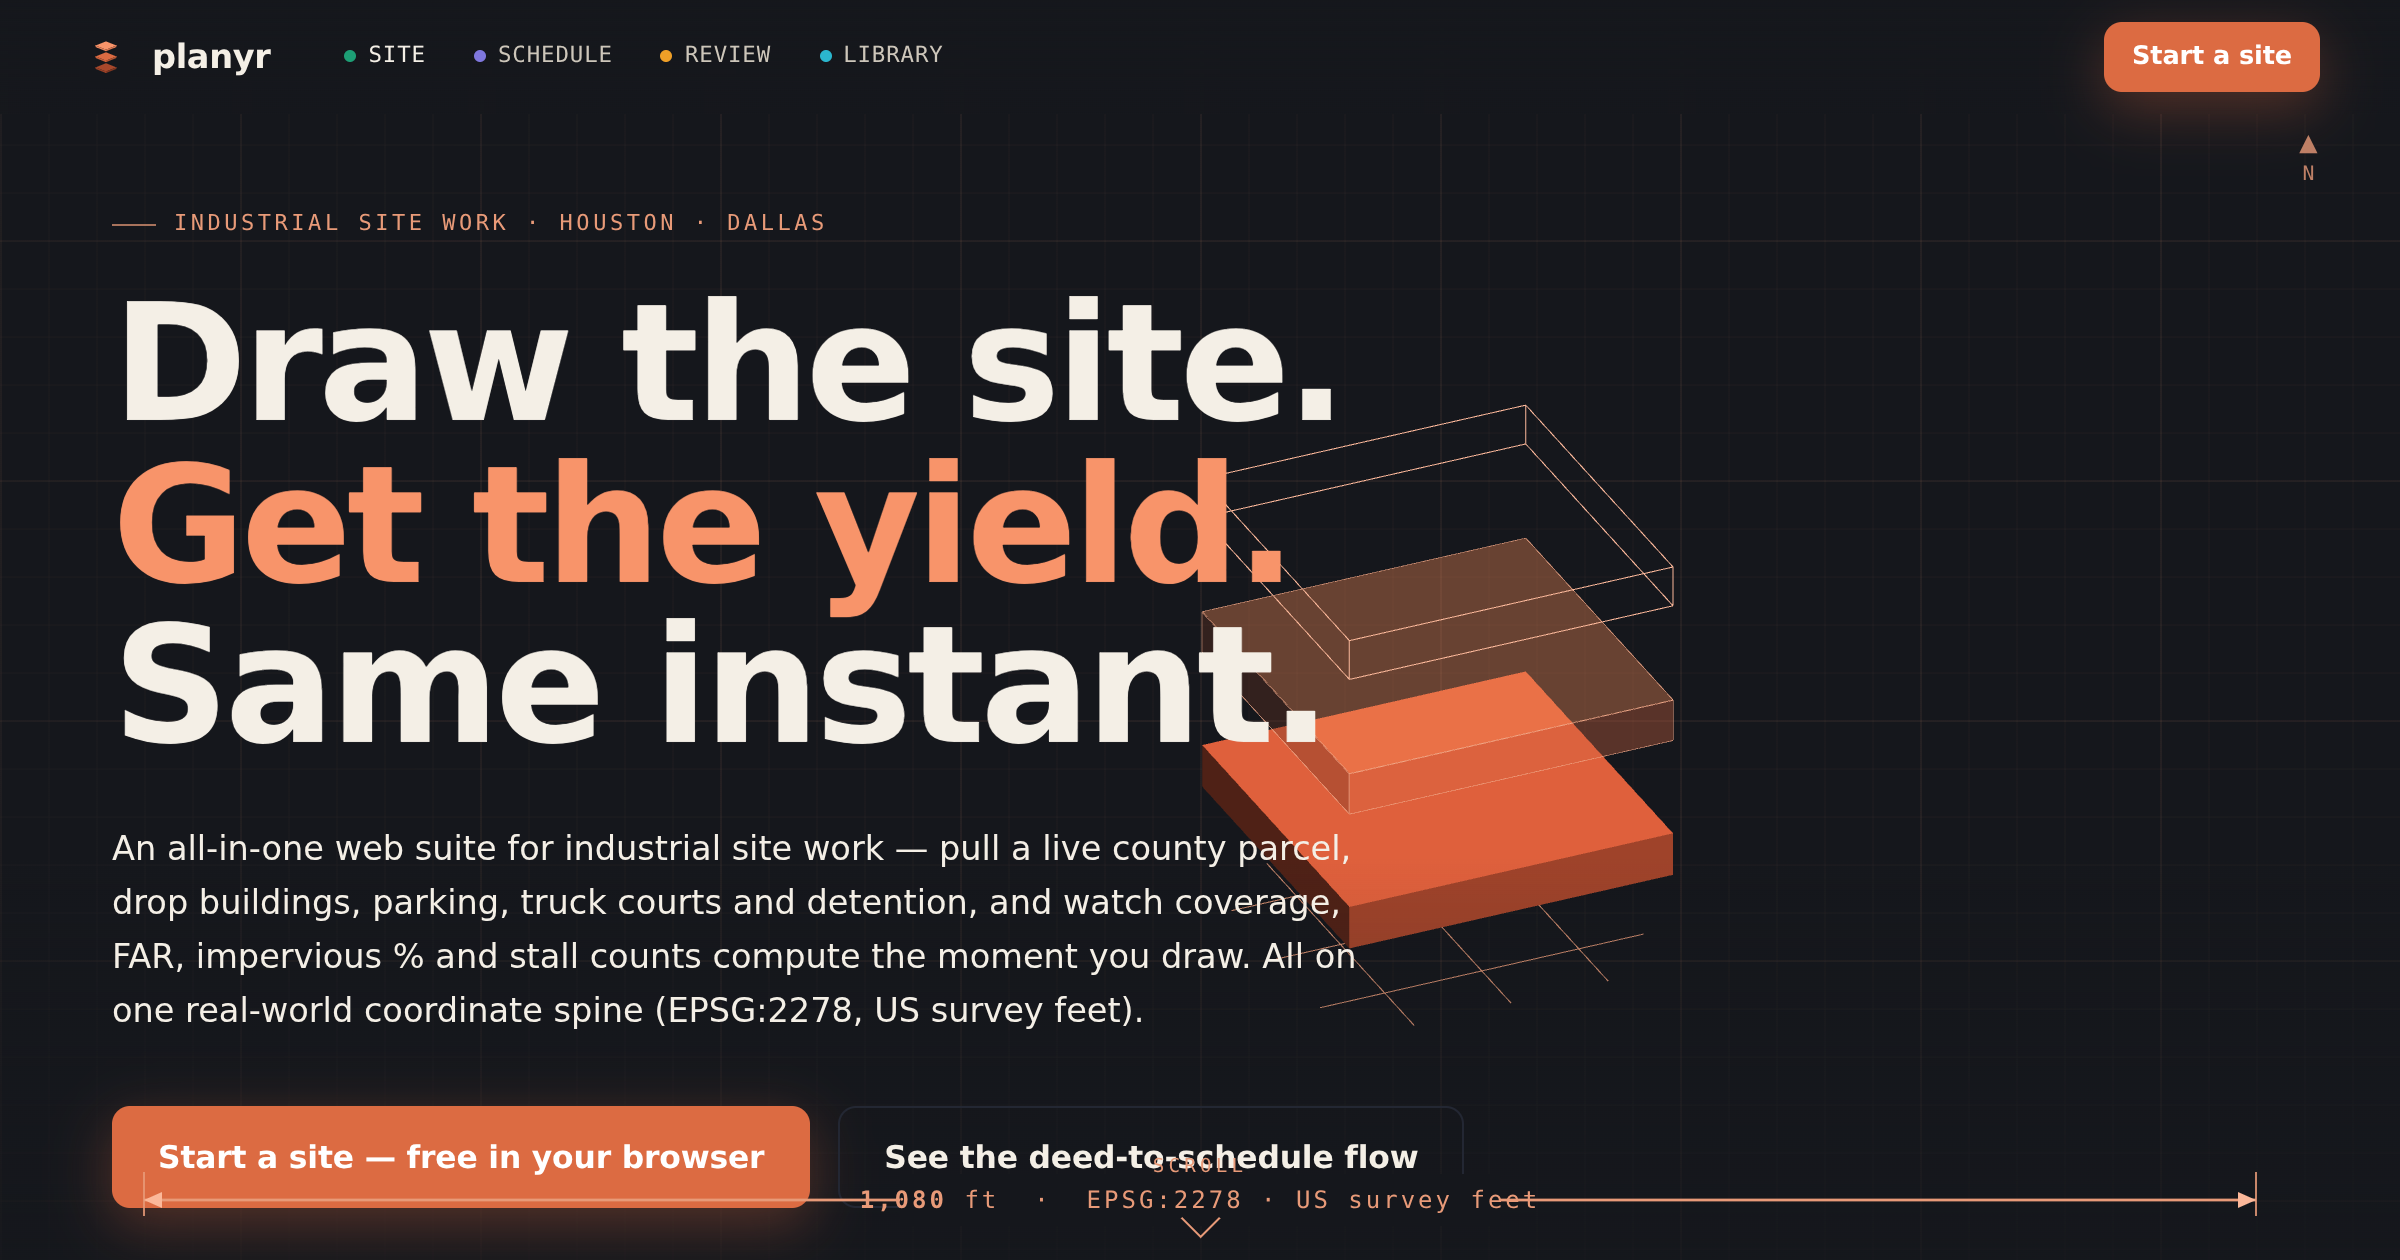
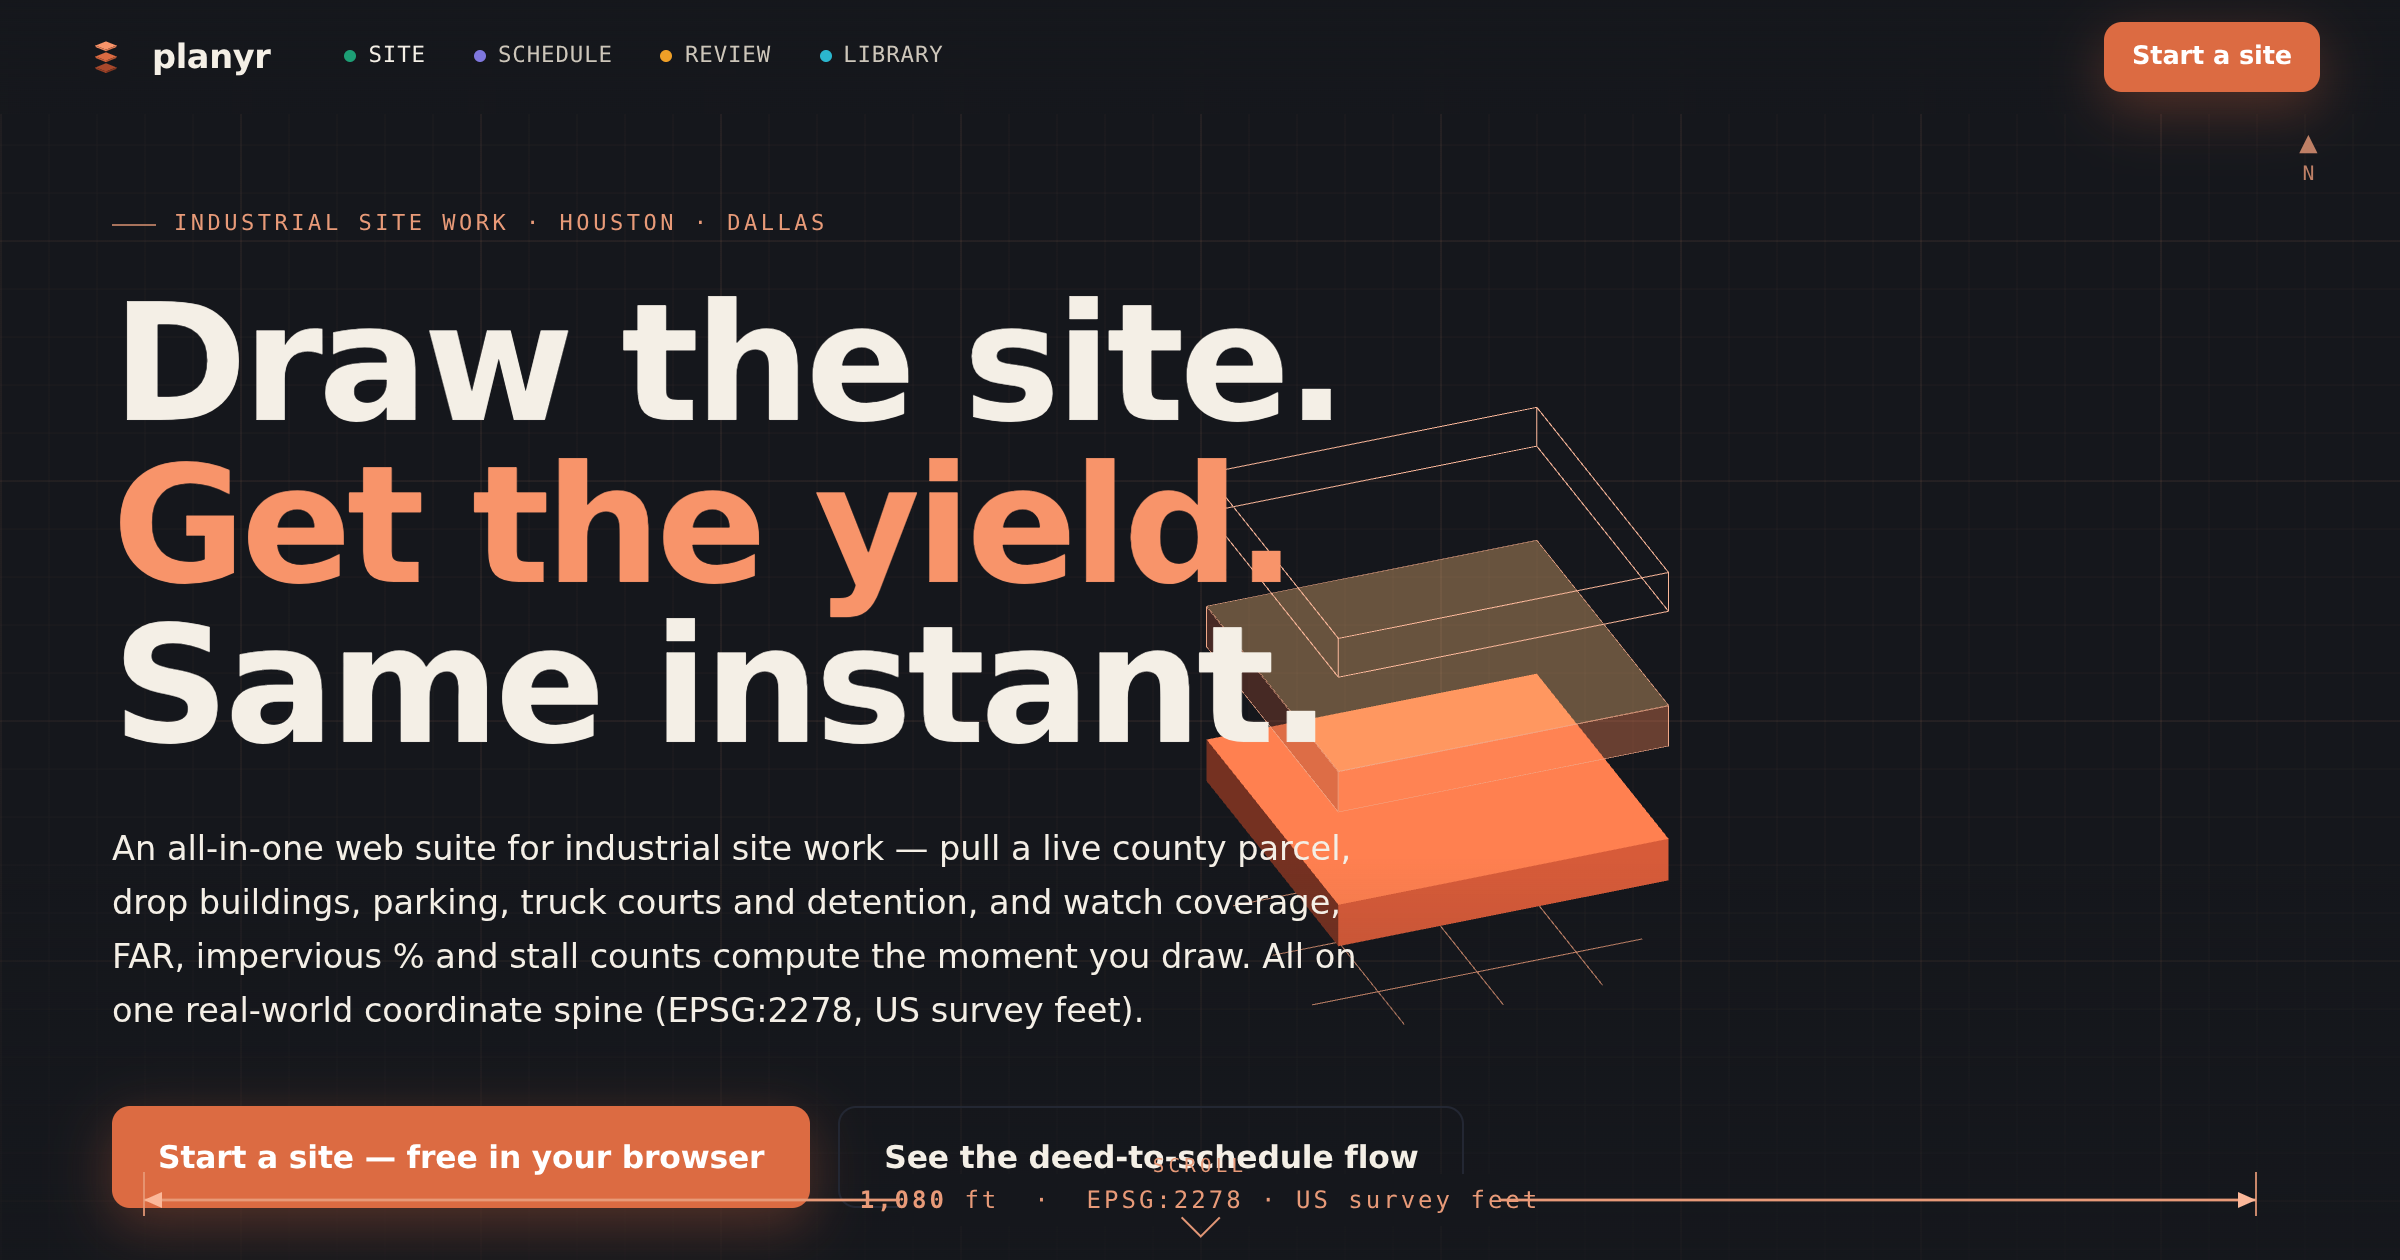
Landing page: apply adversarial-review fixes (visibility, mobile, perf, a11y)
Acts on a 6-lens review of the landing page:

- Site showpiece visibility: brighter ambient/hemisphere light + a coral-mid
  "built" skin + visible truck-court/pond so the 3D build reads through the whole
  scrub instead of sinking into the ink past ~40%.
- Mobile horizontal overflow (root cause of the clipped topbar CTA): the Review
  sheets' scattered pre-stitch transforms overflowed the page and widened the
  mobile layout viewport. Clip them to the drawing frame (overflow:hidden) and
  fix the canvas to width:100% (not 100vw). Hero/close CTAs stack full-width and
  wrap on narrow phones; topbar CTA swaps to a short label.
- Spine on phones: the horizontal 5-station track can't fit, so render a vertical
  stacked timeline below 640px.
- Perf: defer three.min.js (590 KB) off the critical path — show the static mark
  immediately, boot the WebGL scene on idle, upgrade in place.
- a11y: visible :focus-visible rings on every link/button.
- Copy: Schedule eyebrow now says "Schedule" (matched the tab + heading).
- Review payoff badges (auto-calibrated / auto-filed) moved inside the sheet
  corners, larger, near-solid backing so they actually get seen.
- Hero mark dimmed + lifted on mobile/tablet so the coral headline stays legible.

Regenerated og.png. lint clean, 1795 tests pass, build green; verified across
desktop/tablet/phone (320–414px) with no horizontal overflow and WebGL booting.

Claude-Session: https://claude.ai/code/session_01FhhQ3cQSmoW4harGBLpUdh

diff --git a/public/landing/index.html b/public/landing/index.html
@@ -98,10 +98,12 @@ body::before {
           mask-image: radial-gradient(120% 90% at 60% 35%, #000 35%, transparent 100%);
 }
 
-/* The Three.js canvas — fixed full-viewport, behind the DOM, decorative. */
+/* The Three.js canvas — fixed full-viewport, behind the DOM, decorative.
+   width/height 100% (not 100vw/vh) so it never exceeds the layout width by the
+   scrollbar gutter — that overflow was pushing the fixed topbar CTA off the edge. */
 #bg {
   position: fixed; inset: 0; z-index: 1;
-  width: 100vw; height: 100vh;
+  width: 100%; height: 100%;
   pointer-events: none;
   display: block;
 }
@@ -155,9 +157,12 @@ h2 { font-size: clamp(1.7rem, 3.8vw, 2.65rem); letter-spacing: -0.02em; }
   background: linear-gradient(to bottom, rgba(21,23,28,.92), rgba(21,23,28,.62) 70%, transparent);
   -webkit-backdrop-filter: blur(8px); backdrop-filter: blur(8px);
 }
-.brand { display: inline-flex; align-items: center; gap: 10px; text-decoration: none; }
+.topbar { flex-wrap: nowrap; }
+.topbar .btn { flex: none; }
+.brand { display: inline-flex; align-items: center; gap: 10px; text-decoration: none; min-width: 0; }
 .brand svg { display: block; flex: none; }
-.brand b { font-weight: 800; font-size: 1.05rem; letter-spacing: -0.01em; color: var(--cream); }
+.brand b { font-weight: 800; font-size: 1.05rem; letter-spacing: -0.01em; color: var(--cream); white-space: nowrap; }
+.lbl-sm { display: none; }
 .tabs { display: flex; gap: 2px; margin-left: 8px; }
 .tab {
   font-family: var(--mono); font-size: 0.7rem; letter-spacing: 0.04em; text-transform: uppercase;
@@ -179,6 +184,11 @@ h2 { font-size: clamp(1.7rem, 3.8vw, 2.65rem); letter-spacing: -0.02em; }
 .btn-primary:hover { filter: brightness(1.06); }
 .btn-ghost { background: transparent; color: var(--cream); border-color: var(--ink-3); }
 .btn-ghost:hover { border-color: var(--line-1); color: var(--line-2); }
+/* Visible keyboard focus on every interactive element (coral ring reads on both the
+   ink field and the coral button fill). */
+.btn:focus-visible, .tab:focus-visible, .brand:focus-visible {
+  outline: 2px solid var(--line-2); outline-offset: 3px; border-radius: 9px;
+}
 .topbar .btn { padding: 7px 13px; font-size: 0.8rem; }
 .topbar .btn-ghost { display: none; }
 
@@ -232,6 +242,17 @@ h2 { font-size: clamp(1.7rem, 3.8vw, 2.65rem); letter-spacing: -0.02em; }
 #spine-svg text { font-family: var(--mono); fill: var(--cream); }
 #spine-svg .cap { fill: var(--cream); font-size: 13px; font-weight: 600; letter-spacing: .02em; }
 #spine-svg .sub { fill: var(--line-1); font-size: 9px; letter-spacing: .14em; }
+.spine-vert { display: none; }
+@media (max-width: 640px) {
+  #spine-svg { display: none; }
+  .spine-track { height: auto; margin-top: 6px; }
+  .spine-vert { display: block; list-style: none; margin: 0; padding: 4px 0 2px 24px; border-left: 2px solid var(--line-1); }
+  .spine-vert li { position: relative; padding: 0 0 22px 12px; opacity: 0; transform: translateY(8px); }
+  .spine-vert li:last-child { padding-bottom: 2px; }
+  .spine-vert li::before { content: ""; position: absolute; left: -31px; top: 3px; width: 11px; height: 11px; border-radius: 50%; background: var(--coral-mid); border: 2px solid var(--ink); }
+  .spine-vert .vn { display: block; font-weight: 700; font-size: 1.05rem; letter-spacing: -0.01em; color: var(--cream); }
+  .spine-vert .vs { display: block; font-family: var(--mono); font-size: 0.64rem; letter-spacing: .14em; text-transform: uppercase; color: var(--line-1); margin-top: 3px; }
+}
 
 /* ---- sticky showpiece sections ---- */
 .stage-section { position: relative; }
@@ -281,7 +302,10 @@ h2 { font-size: clamp(1.7rem, 3.8vw, 2.65rem); letter-spacing: -0.02em; }
 }
 
 /* Review */
-.review-stage .frame { position: relative; width: 100%; aspect-ratio: 4 / 3; max-width: 560px; margin-inline: auto; }
+/* overflow:hidden clips the sheets to the drawing frame (correct for a viewport) and,
+   crucially, stops their scattered pre-stitch transforms from overflowing the page —
+   that overflow was widening the mobile layout viewport and cropping the topbar CTA. */
+.review-stage .frame { position: relative; width: 100%; aspect-ratio: 4 / 3; max-width: 560px; margin-inline: auto; overflow: hidden; border-radius: 10px; }
 .sheet {
   position: absolute; inset: 0; border-radius: 8px; background: #F4F1EA;
   border: 1px solid #c9c3b4; box-shadow: 0 18px 50px rgba(0,0,0,.5);
@@ -294,11 +318,14 @@ h2 { font-size: clamp(1.7rem, 3.8vw, 2.65rem); letter-spacing: -0.02em; }
 .sheet .glyph::after { content: ""; position: absolute; inset: 18% 30% 30% 14%; border: 1px solid #b0aa99; }
 .sheet .code { position: absolute; left: 9px; top: 9px; font-family: var(--mono); font-size: 11px; color: #5a5446; font-weight: 600; letter-spacing: .05em; }
 .calib-label, .filed-label {
-  position: absolute; font-family: var(--mono); font-size: 0.66rem; letter-spacing: .06em;
-  padding: 5px 10px; border-radius: 7px; opacity: 0; white-space: nowrap;
+  position: absolute; font-family: var(--mono); font-size: 0.74rem; letter-spacing: .04em; font-weight: 500;
+  padding: 6px 11px; border-radius: 8px; opacity: 0; white-space: nowrap;
+  box-shadow: 0 8px 22px rgba(0,0,0,.45);
 }
-.calib-label { left: 6%; bottom: -6%; color: var(--line-1); border: 1px solid rgba(232,154,120,.4); background: rgba(21,23,28,.85); }
-.filed-label { right: 4%; top: -7%; color: var(--review); border: 1px solid rgba(239,159,39,.45); background: rgba(21,23,28,.85); }
+/* Inside the sheet's corners (the reading zone) so these two payoff badges —
+   auto-calibrated, auto-filed — actually get seen, on a near-solid backing. */
+.calib-label { left: 4%; bottom: 5%; color: var(--line-2); border: 1px solid rgba(240,168,136,.5); background: rgba(21,23,28,.95); }
+.filed-label { right: 4%; top: 5%; color: var(--review); border: 1px solid rgba(239,159,39,.55); background: rgba(21,23,28,.95); }
 
 /* Schedule gantt */
 .gantt { display: grid; gap: 9px; margin-top: 12px; }
@@ -353,11 +380,18 @@ footer .cred { font-family: var(--mono); font-size: 0.62rem; letter-spacing: .06
   .metrics { grid-template-columns: 1fr 1fr; }
   .proof-row { gap: 6px 16px; }
   .gantt .row { grid-template-columns: 96px 1fr; }
-  /* keep the persistent CTA from clipping off the right edge on narrow phones */
+  /* keep the persistent CTA from clipping off the right edge on narrow phones:
+     tighten the bar and swap the button label to the short form. */
   .topbar { gap: 10px; padding: 10px 14px; }
-  .topbar .btn-primary { padding: 7px 12px; font-size: 0.78rem; }
+  .topbar .btn-primary { padding: 7px 13px; font-size: 0.8rem; }
+  .topbar .lbl-lg { display: none; }
+  .topbar .lbl-sm { display: inline; }
   .brand b { font-size: 0.98rem; }
   .hero h1 { font-size: clamp(2.1rem, 11vw, 3rem); }
+  /* Hero/close CTAs stack full-width and wrap their text so the long label can't
+     overflow a narrow phone. */
+  .hero .ctas, .close .ctas { flex-direction: column; align-items: stretch; }
+  .hero .ctas .btn, .close .ctas .btn { width: 100%; white-space: normal; justify-content: center; text-align: center; }
 }
 
 /* ---- reduced motion: everything legible, zero motion ---- */
@@ -365,6 +399,7 @@ footer .cred { font-family: var(--mono); font-size: 0.62rem; letter-spacing: .06
   .scroll-cue .chev { animation: none; }
   .chip.live .dot { animation: none; }
   .reveal { opacity: 1 !important; transform: none !important; }
+  .spine-vert li { opacity: 1 !important; transform: none !important; }
 }
 </style>
 </head>
@@ -398,7 +433,7 @@ footer .cred { font-family: var(--mono); font-size: 0.62rem; letter-spacing: .06
   </nav>
   <div class="spacer"></div>
   <a class="btn btn-ghost" href="#how">See the flow</a>
-  <a class="btn btn-primary" href="https://planyr.io/">Start a site</a>
+  <a class="btn btn-primary" href="https://planyr.io/"><span class="lbl-lg">Start a site</span><span class="lbl-sm">Start</span></a>
 </header>
 
 <main id="top">
@@ -438,6 +473,14 @@ footer .cred { font-family: var(--mono); font-size: 0.62rem; letter-spacing: .06
       </div>
       <div class="spine-track">
         <svg id="spine-svg" viewBox="0 0 1200 150" preserveAspectRatio="none" aria-hidden="true"></svg>
+        <!-- On narrow phones the horizontal track can't fit 5 stations — stack them. -->
+        <ol id="spine-vert" class="spine-vert">
+          <li><span class="vn">Deed</span><span class="vs">Metes &amp; bounds</span></li>
+          <li><span class="vn">Map</span><span class="vs">Aerial · GIS</span></li>
+          <li><span class="vn">Drawings</span><span class="vs">Stitched set</span></li>
+          <li><span class="vn">Layout</span><span class="vs">Massing · yield</span></li>
+          <li><span class="vn">Schedule</span><span class="vs">Sequence</span></li>
+        </ol>
       </div>
     </div>
   </section>
@@ -507,7 +550,7 @@ footer .cred { font-family: var(--mono); font-size: 0.62rem; letter-spacing: .06
     <div class="wrap">
       <div class="stage .nostick" style="min-height:auto; display:block; position:static;">
         <div class="sec-head" style="max-width:680px">
-          <span class="eyebrow reveal"><span style="color:var(--schedule)">●</span>&nbsp;Sequence</span>
+          <span class="eyebrow reveal"><span style="color:var(--schedule)">●</span>&nbsp;Schedule</span>
           <h2 class="reveal">The schedule, wired to the site.</h2>
           <p class="lede reveal">A development timeline linked to the same project — click the site,
             see its sequence: entitlement, grading, foundations, tilt-up, TI, CO. One spine, every phase.</p>
@@ -598,15 +641,19 @@ footer .cred { font-family: var(--mono); font-size: 0.62rem; letter-spacing: .06
 
 </main>
 
-<!-- vendored, zero third-party runtime deps -->
-<script src="/landing/vendor/three.min.js"></script>
+<!-- vendored, zero third-party runtime deps. three.js (590 KB) is deferred — it only
+     drives the Hero + Site 3D and is booted on idle, off the critical path. gsap +
+     ScrollTrigger stay synchronous (they drive every DOM/SVG section). -->
+<script defer src="/landing/vendor/three.min.js"></script>
 <script src="/landing/vendor/gsap.min.js"></script>
 <script src="/landing/vendor/ScrollTrigger.min.js"></script>
 <script>
 /* eslint-disable */
 (function () {
   "use strict";
-  var gsap = window.gsap, ScrollTrigger = window.ScrollTrigger, THREE = window.THREE;
+  // gsap + ScrollTrigger are synchronous (loaded before this script). THREE is deferred,
+  // so it is read at boot time (window.THREE) inside initThree, never captured here.
+  var gsap = window.gsap, ScrollTrigger = window.ScrollTrigger;
   var REDUCE = window.matchMedia && window.matchMedia("(prefers-reduced-motion: reduce)").matches;
   var IS_MOBILE = window.matchMedia && window.matchMedia("(max-width: 860px)").matches;
   var fmt = function (n) { return n.toLocaleString("en-US"); };
@@ -676,6 +723,7 @@ footer .cred { font-family: var(--mono); font-size: 0.62rem; letter-spacing: .06
   }
 
   function initThree() {
+    var THREE = window.THREE; // deferred lib — read at call time, not at script parse time
     if (!THREE || !hasWebGL()) return false;
     var canvas = document.getElementById("bg");
     var renderer;
@@ -696,9 +744,11 @@ footer .cred { font-family: var(--mono); font-size: 0.62rem; letter-spacing: .06
     cam.lookAt(0, 0, 0);
 
     // Lighting — warm key upper-right (lit top, darker sides, like the mark) + cool fill.
-    var key = new THREE.DirectionalLight(0xF4EFE6, 1.25); key.position.set(7, 12, 5); scene.add(key);
-    scene.add(new THREE.AmbientLight(0x2a2630, 1.0));
-    scene.add(new THREE.HemisphereLight(0x6a7488, 0x140f0c, 0.55));
+    // Brighter ambient/hemisphere so the Site build reads clearly through the whole scrub
+    // (the solid "built" skin was getting lost on the near-black field).
+    var key = new THREE.DirectionalLight(0xF4EFE6, 1.4); key.position.set(7, 12, 5); scene.add(key);
+    scene.add(new THREE.AmbientLight(0x4a4452, 1.0));
+    scene.add(new THREE.HemisphereLight(0x8a93a8, 0x1a1410, 0.82));
 
     var mats = []; // track for opacity control
     function track(m) { mats.push(m); return m; }
@@ -707,8 +757,8 @@ footer .cred { font-family: var(--mono); font-size: 0.62rem; letter-spacing: .06
     var markGroup = new THREE.Group();
     markGroup.rotation.y = Math.PI / 4; // square footprint -> diamond
     markGroup.position.x = IS_MOBILE ? 0 : 4.0;
-    markGroup.position.y = IS_MOBILE ? 3.0 : 1.0;
-    markGroup.scale.setScalar(IS_MOBILE ? 0.6 : 0.92);
+    markGroup.position.y = IS_MOBILE ? 3.6 : 1.0;
+    markGroup.scale.setScalar(IS_MOBILE ? 0.52 : 0.92);
     scene.add(markGroup);
 
     var F = 2.3; // tier footprint half-width
@@ -741,9 +791,9 @@ footer .cred { font-family: var(--mono); font-size: 0.62rem; letter-spacing: .06
     // --- the SITE group (the build showpiece), starts hidden ---
     var siteGroup = new THREE.Group();
     siteGroup.rotation.y = Math.PI / 4;
-    siteGroup.position.x = IS_MOBILE ? 0 : 4.4; // right half (copy + yield card sit left)
+    siteGroup.position.x = IS_MOBILE ? 0 : 4.3; // right half (copy + yield card sit left)
     siteGroup.position.y = IS_MOBILE ? -0.2 : 0.4;
-    siteGroup.scale.setScalar(IS_MOBILE ? 0.6 : 0.8);
+    siteGroup.scale.setScalar(IS_MOBILE ? 0.62 : 0.9);
     siteGroup.visible = false;
     scene.add(siteGroup);
 
@@ -756,7 +806,7 @@ footer .cred { font-family: var(--mono); font-size: 0.62rem; letter-spacing: .06
     // building — one geometry, three skins (wire -> glass -> solid) cross-faded by progress
     var bH = 2.2;
     var bGeo = new THREE.BoxGeometry(4.6, 1, 3.2); bGeo.translate(0, 0.5, 0); // base at y=0
-    var bSolidMat = track(new THREE.MeshStandardMaterial({ color: 0xA8482B, roughness: 0.6, metalness: 0.05, transparent: true, opacity: 0 }));
+    var bSolidMat = track(new THREE.MeshStandardMaterial({ color: 0xDC6B42, roughness: 0.5, metalness: 0.05, transparent: true, opacity: 0 }));
     var bSolid = new THREE.Mesh(bGeo, bSolidMat); siteGroup.add(bSolid);
     var bGlassMat = track(supportsGlass
       ? new THREE.MeshPhysicalMaterial({ color: 0xDC6B42, roughness: 0.15, transmission: 0.5, transparent: true, opacity: 0, thickness: 1 })
@@ -779,7 +829,7 @@ footer .cred { font-family: var(--mono); font-size: 0.62rem; letter-spacing: .06
     parking.count = 0; siteGroup.add(parking);
 
     // truck court slab + trailers
-    var courtMat = track(new THREE.MeshStandardMaterial({ color: 0x14110e, roughness: 0.95, transparent: true, opacity: 0 }));
+    var courtMat = track(new THREE.MeshStandardMaterial({ color: 0x312a22, roughness: 0.95, transparent: true, opacity: 0 }));
     var court = new THREE.Mesh(new THREE.BoxGeometry(4.6, 0.05, 1.6), courtMat); court.position.set(0, 0.02, -2.3); siteGroup.add(court);
     var trailerGeo = new THREE.BoxGeometry(0.3, 0.22, 0.9);
     var trailerMat = track(new THREE.MeshStandardMaterial({ color: 0xC85F3A, roughness: 0.6, transparent: true }));
@@ -788,7 +838,7 @@ footer .cred { font-family: var(--mono); font-size: 0.62rem; letter-spacing: .06
     trailers.count = 0; siteGroup.add(trailers);
 
     // detention pond
-    var pondMat = track(new THREE.MeshStandardMaterial({ color: 0x244a55, roughness: 0.2, metalness: 0.3, transparent: true, opacity: 0 }));
+    var pondMat = track(new THREE.MeshStandardMaterial({ color: 0x2f6f86, roughness: 0.2, metalness: 0.3, transparent: true, opacity: 0 }));
     var pond = new THREE.Mesh(new THREE.CircleGeometry(1.15, 28), pondMat);
     pond.rotation.x = -Math.PI / 2; pond.position.set(2.9, 0.01, 1.9); pond.scale.setScalar(0.01); siteGroup.add(pond);
 
@@ -806,8 +856,10 @@ footer .cred { font-family: var(--mono); font-size: 0.62rem; letter-spacing: .06
     function easeInOut(t) { return t < 0.5 ? 2 * t * t : 1 - Math.pow(-2 * t + 2, 2) / 2; }
 
     function applyState(dt) {
-      // MARK — only while the Hero section is active (else 0 → hidden).
-      var mo = state.heroActive ? state.markOpacity : 0;
+      // MARK — only while the Hero section is active (else 0 → hidden). On mobile/tablet
+      // the mark shares the vertical band with the headline, so dim it to an ambient
+      // level (the scrim + this keep the coral headline word legible over it).
+      var mo = (state.heroActive ? state.markOpacity : 0) * (IS_MOBILE ? 0.5 : 1);
       markGroup.visible = mo > 0.002;
       clampOpacity(botMat, 0.999 * mo); clampOpacity(gridMat, 0.85 * mo);
       clampOpacity(midMat, (supportsGlass ? 0.78 : 0.42) * mo); clampOpacity(midEdge, mo);
@@ -858,29 +910,40 @@ footer .cred { font-family: var(--mono); font-size: 0.62rem; letter-spacing: .06
     return true;
   }
 
-  var hadWebGL = false;
-  try { hadWebGL = initThree(); } catch (e) { hadWebGL = false; }
-  if (!hadWebGL) {
-    window.__landingWebglFallback = true;
-    var fb = document.getElementById("bg-fallback");
-    if (fb) fb.classList.add("show");
-    var bgc = document.getElementById("bg"); if (bgc) bgc.style.display = "none";
-  }
-
   /* ----------------------------------------------------------------------
-     3) Single shared rAF via gsap.ticker — Three render + nothing else idle.
-     Renders only while hero or site beat is on screen; pauses on tab blur.
+     3) Boot WebGL lazily. three.min.js is loaded with `defer`, so it parses off the
+     critical path; we show the static mark immediately (hero is never empty) and
+     upgrade to the live scene on idle once Three is ready. The shared gsap.ticker rAF
+     renders only while the Hero or Site beat is on screen, and pauses on tab blur.
      ---------------------------------------------------------------------- */
-  if (three.ok && gsap) {
-    var last = 0, rendering = false;
-    gsap.ticker.add(function (time) {
-      var dt = last ? time - last : 0; last = time;
-      if (document.hidden) return;
-      var active = state.heroActive || state.siteActive;
-      if (active) { rendering = true; three.render(dt); }
-      else if (rendering) { rendering = false; three.render(0); } // one clearing frame, then idle
-    });
+  var fbEl = document.getElementById("bg-fallback");
+  if (fbEl) fbEl.classList.add("show"); // static mark up-front; hidden once WebGL takes over
+
+  var webglBooted = false, webglTries = 0;
+  function bootWebGL() {
+    if (webglBooted) return;
+    if (!window.THREE) { // wait for the deferred three.min.js (cap the wait, then give up)
+      if (webglTries++ < 80) { setTimeout(bootWebGL, 50); return; }
+      window.__landingWebglFallback = true; return; // keep the static mark
+    }
+    webglBooted = true;
+    var ok = false;
+    try { ok = initThree(); } catch (e) { ok = false; }
+    if (!ok) { window.__landingWebglFallback = true; return; } // WebGL unavailable → keep static mark
+    if (fbEl) fbEl.classList.remove("show"); // upgrade: reveal the live canvas
+    if (gsap) {
+      var last = 0, rendering = false;
+      gsap.ticker.add(function (time) {
+        var dt = last ? time - last : 0; last = time;
+        if (document.hidden) return;
+        var active = state.heroActive || state.siteActive;
+        if (active) { rendering = true; three.render(dt); }
+        else if (rendering) { rendering = false; three.render(0); } // one clearing frame, then idle
+      });
+    }
   }
+  if (window.requestIdleCallback) requestIdleCallback(bootWebGL, { timeout: 700 });
+  else setTimeout(bootWebGL, 200);
 
   /* ----------------------------------------------------------------------
      4) ScrollTrigger choreography.
@@ -1044,6 +1107,14 @@ footer .cred { font-family: var(--mono); font-size: 0.62rem; letter-spacing: .06
   }
   function drawSpineStatic() { spineMarkup(true); }
   function buildSpine() {
+    // Narrow phones use the vertical DOM stack (the horizontal SVG can't fit 5 stations).
+    if (window.matchMedia && window.matchMedia("(max-width:640px)").matches) {
+      gsap.utils.toArray("#spine-vert li").forEach(function (li) {
+        gsap.to(li, { opacity: 1, y: 0, duration: 0.5, ease: "power2.out",
+          scrollTrigger: { trigger: li, start: "top 90%" } });
+      });
+      return;
+    }
     spineMarkup(false);
     var line = document.getElementById("spine-line");
     if (!line) return;